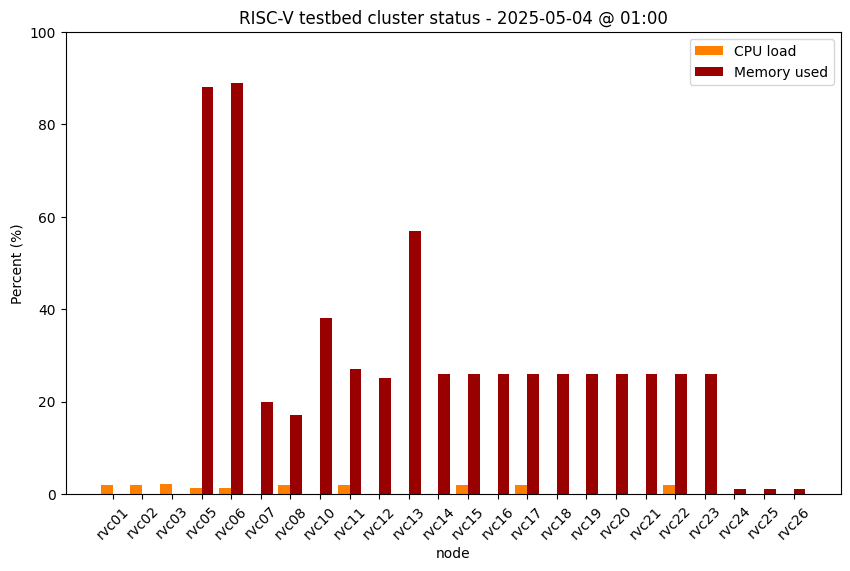
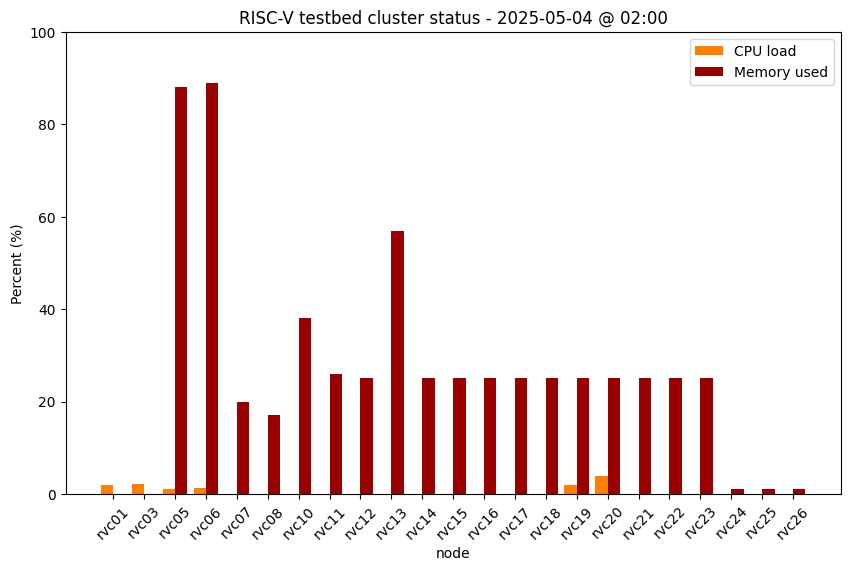
Update cluster status

Changed region(s): [[0.1529, 0.1489, 0.9482, 0.9527]]

diff --git a/status.md b/status.md
@@ -14,7 +14,7 @@ permalink: /status/
 | Description  | Hostname | # of cores | DRAM | Status |
 | ------------- | ------------- |  ------------- | ------------- | ------------- | 
 | Banana Pi BPI-F3 #1 | rvc01 | 8 | 16GB | <img src="/images/on.png" alt="green light" width="10"/> up |
-| Milk-V Jupiter #1 | rvc02 | 8 | 16GB | <img src="/images/on.png" alt="green light" width="10"/> up |
+| Milk-V Jupiter #1 | rvc02 | 8 | 16GB | <img src="/images/off.png" alt="red light" width="10"/> down |
 | Milk-V Jupiter #2 | rvc03 | 8 | 16GB | <img src="/images/on.png" alt="green light" width="10"/> up |
 | DongshanNezhaSTU #4 | rvc04 | 1 | 512MB | <img src="/images/amber.png" alt="amber light" width="10"/> offline |
 | MangoPi MQ-Pro #1 | rvc05 | 1 | 1GB | <img src="/images/on.png" alt="green light" width="10"/> up |
